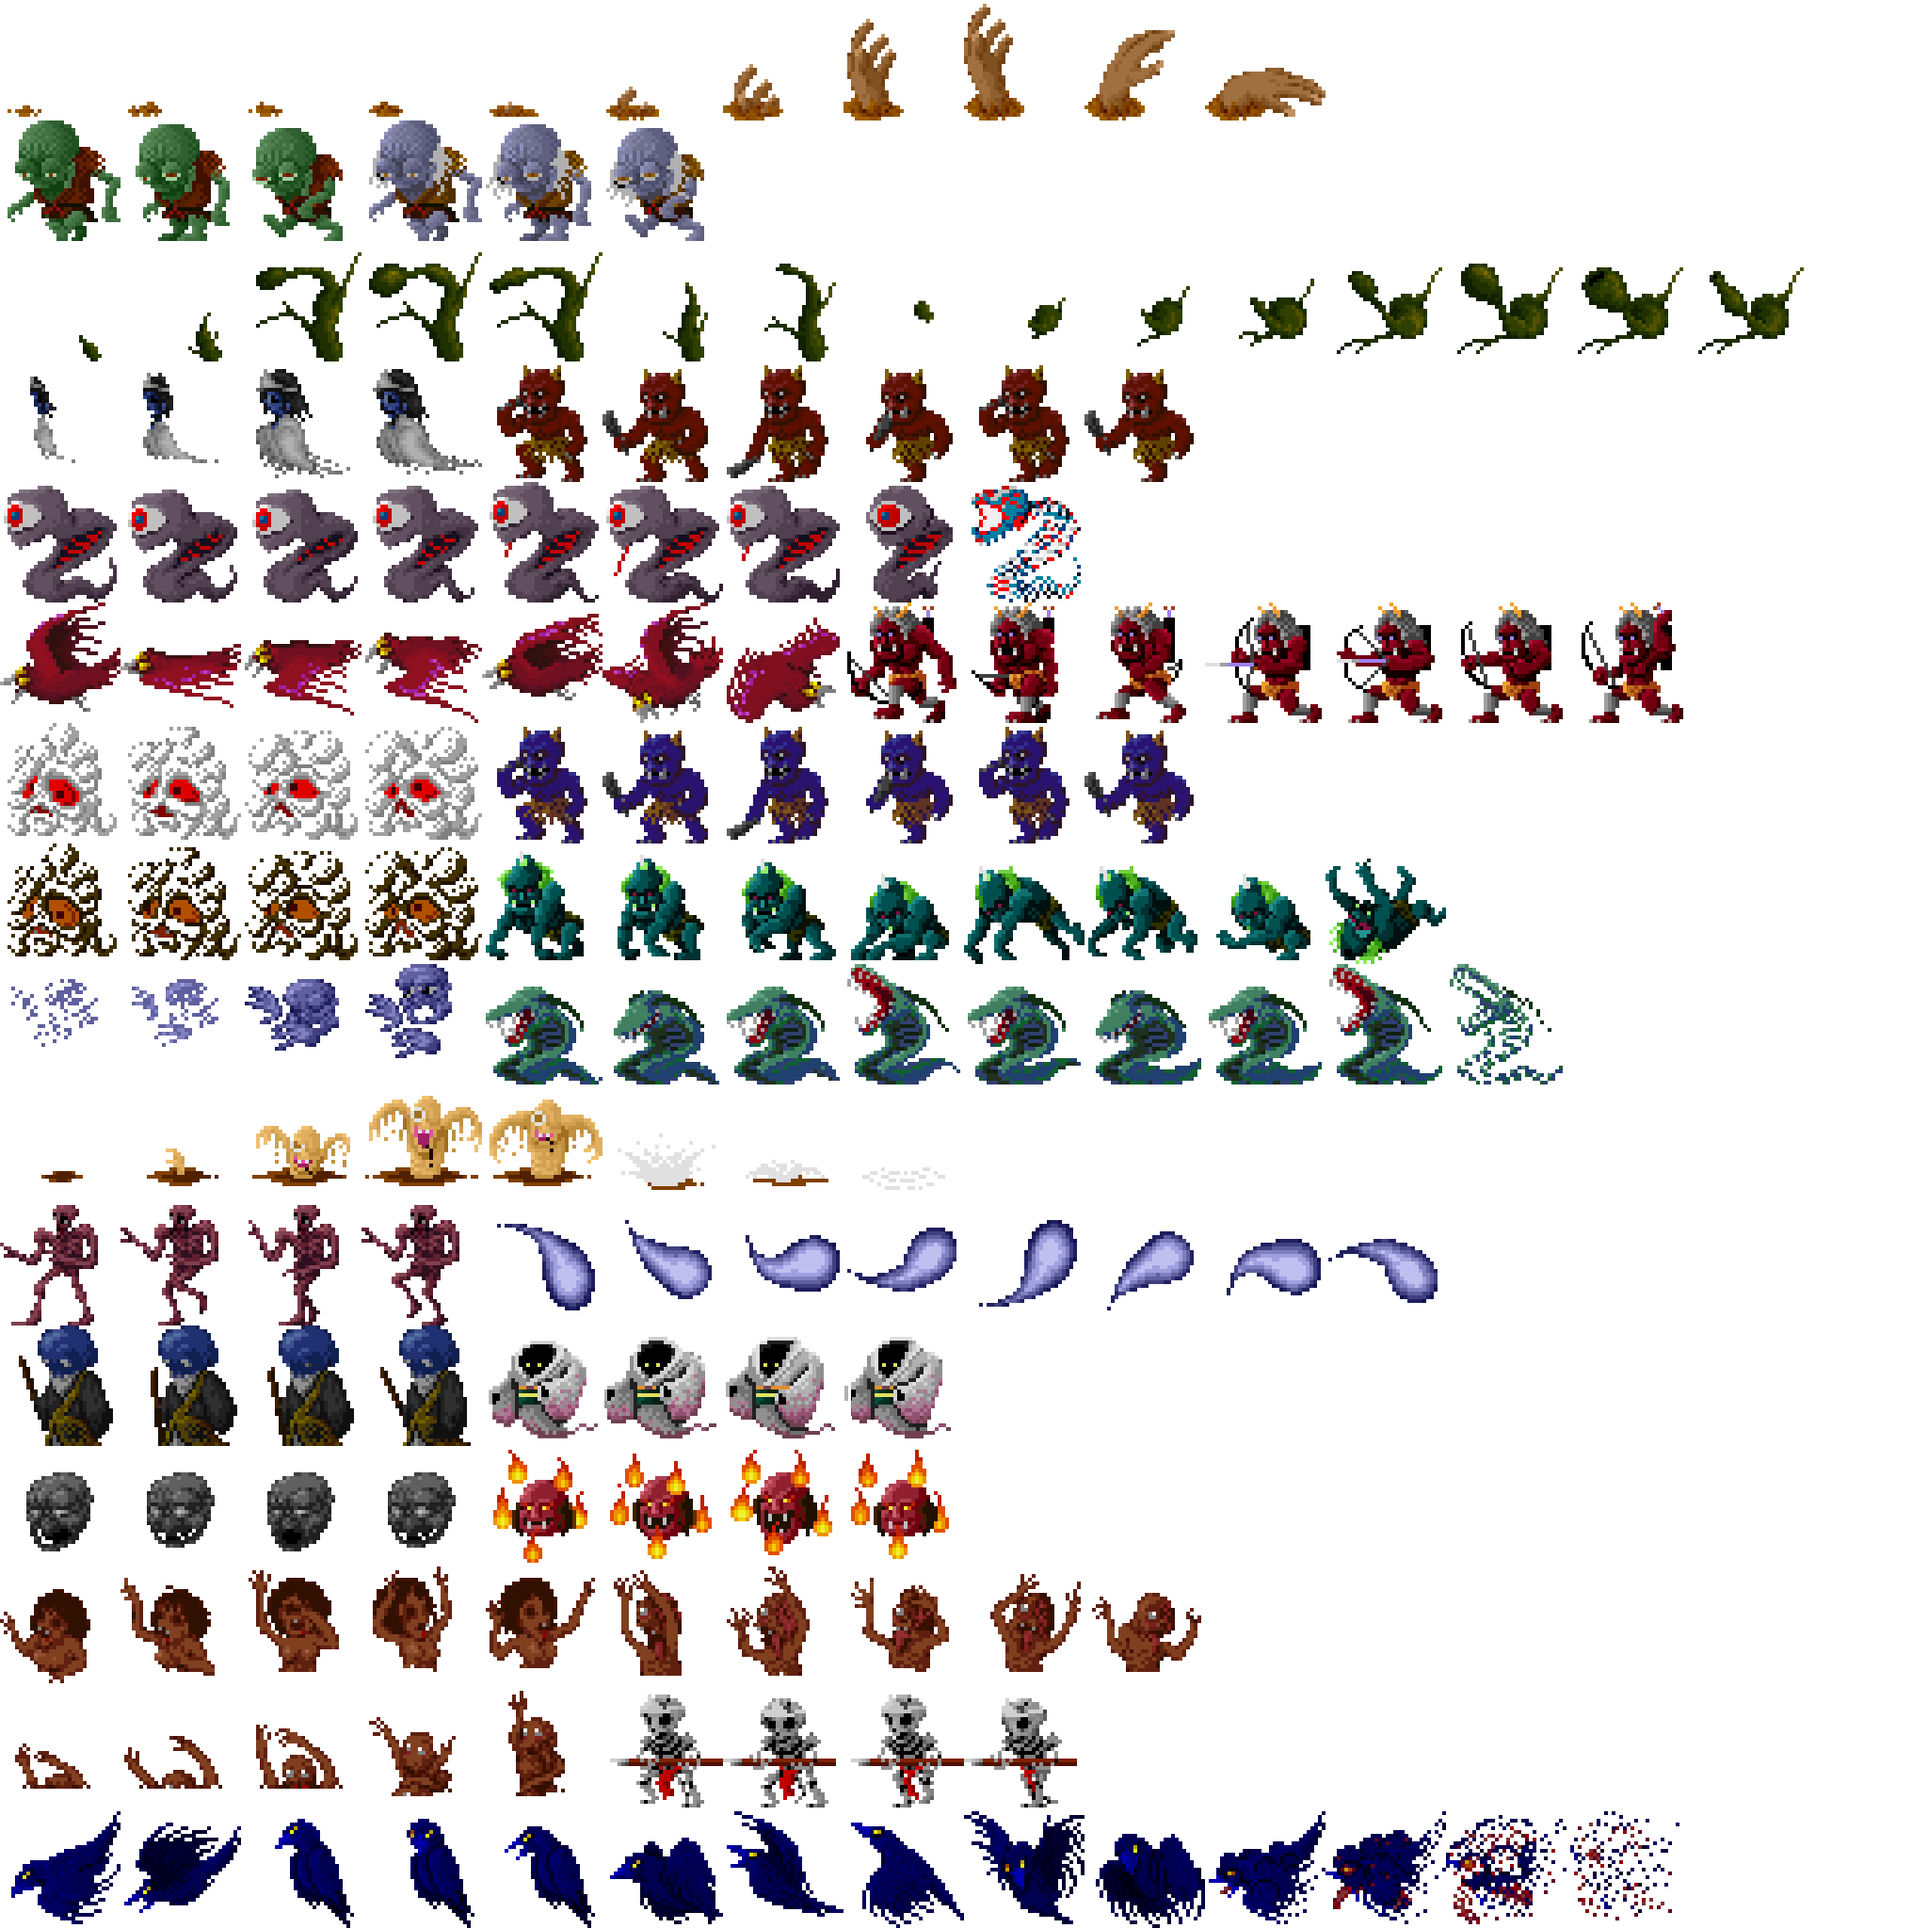
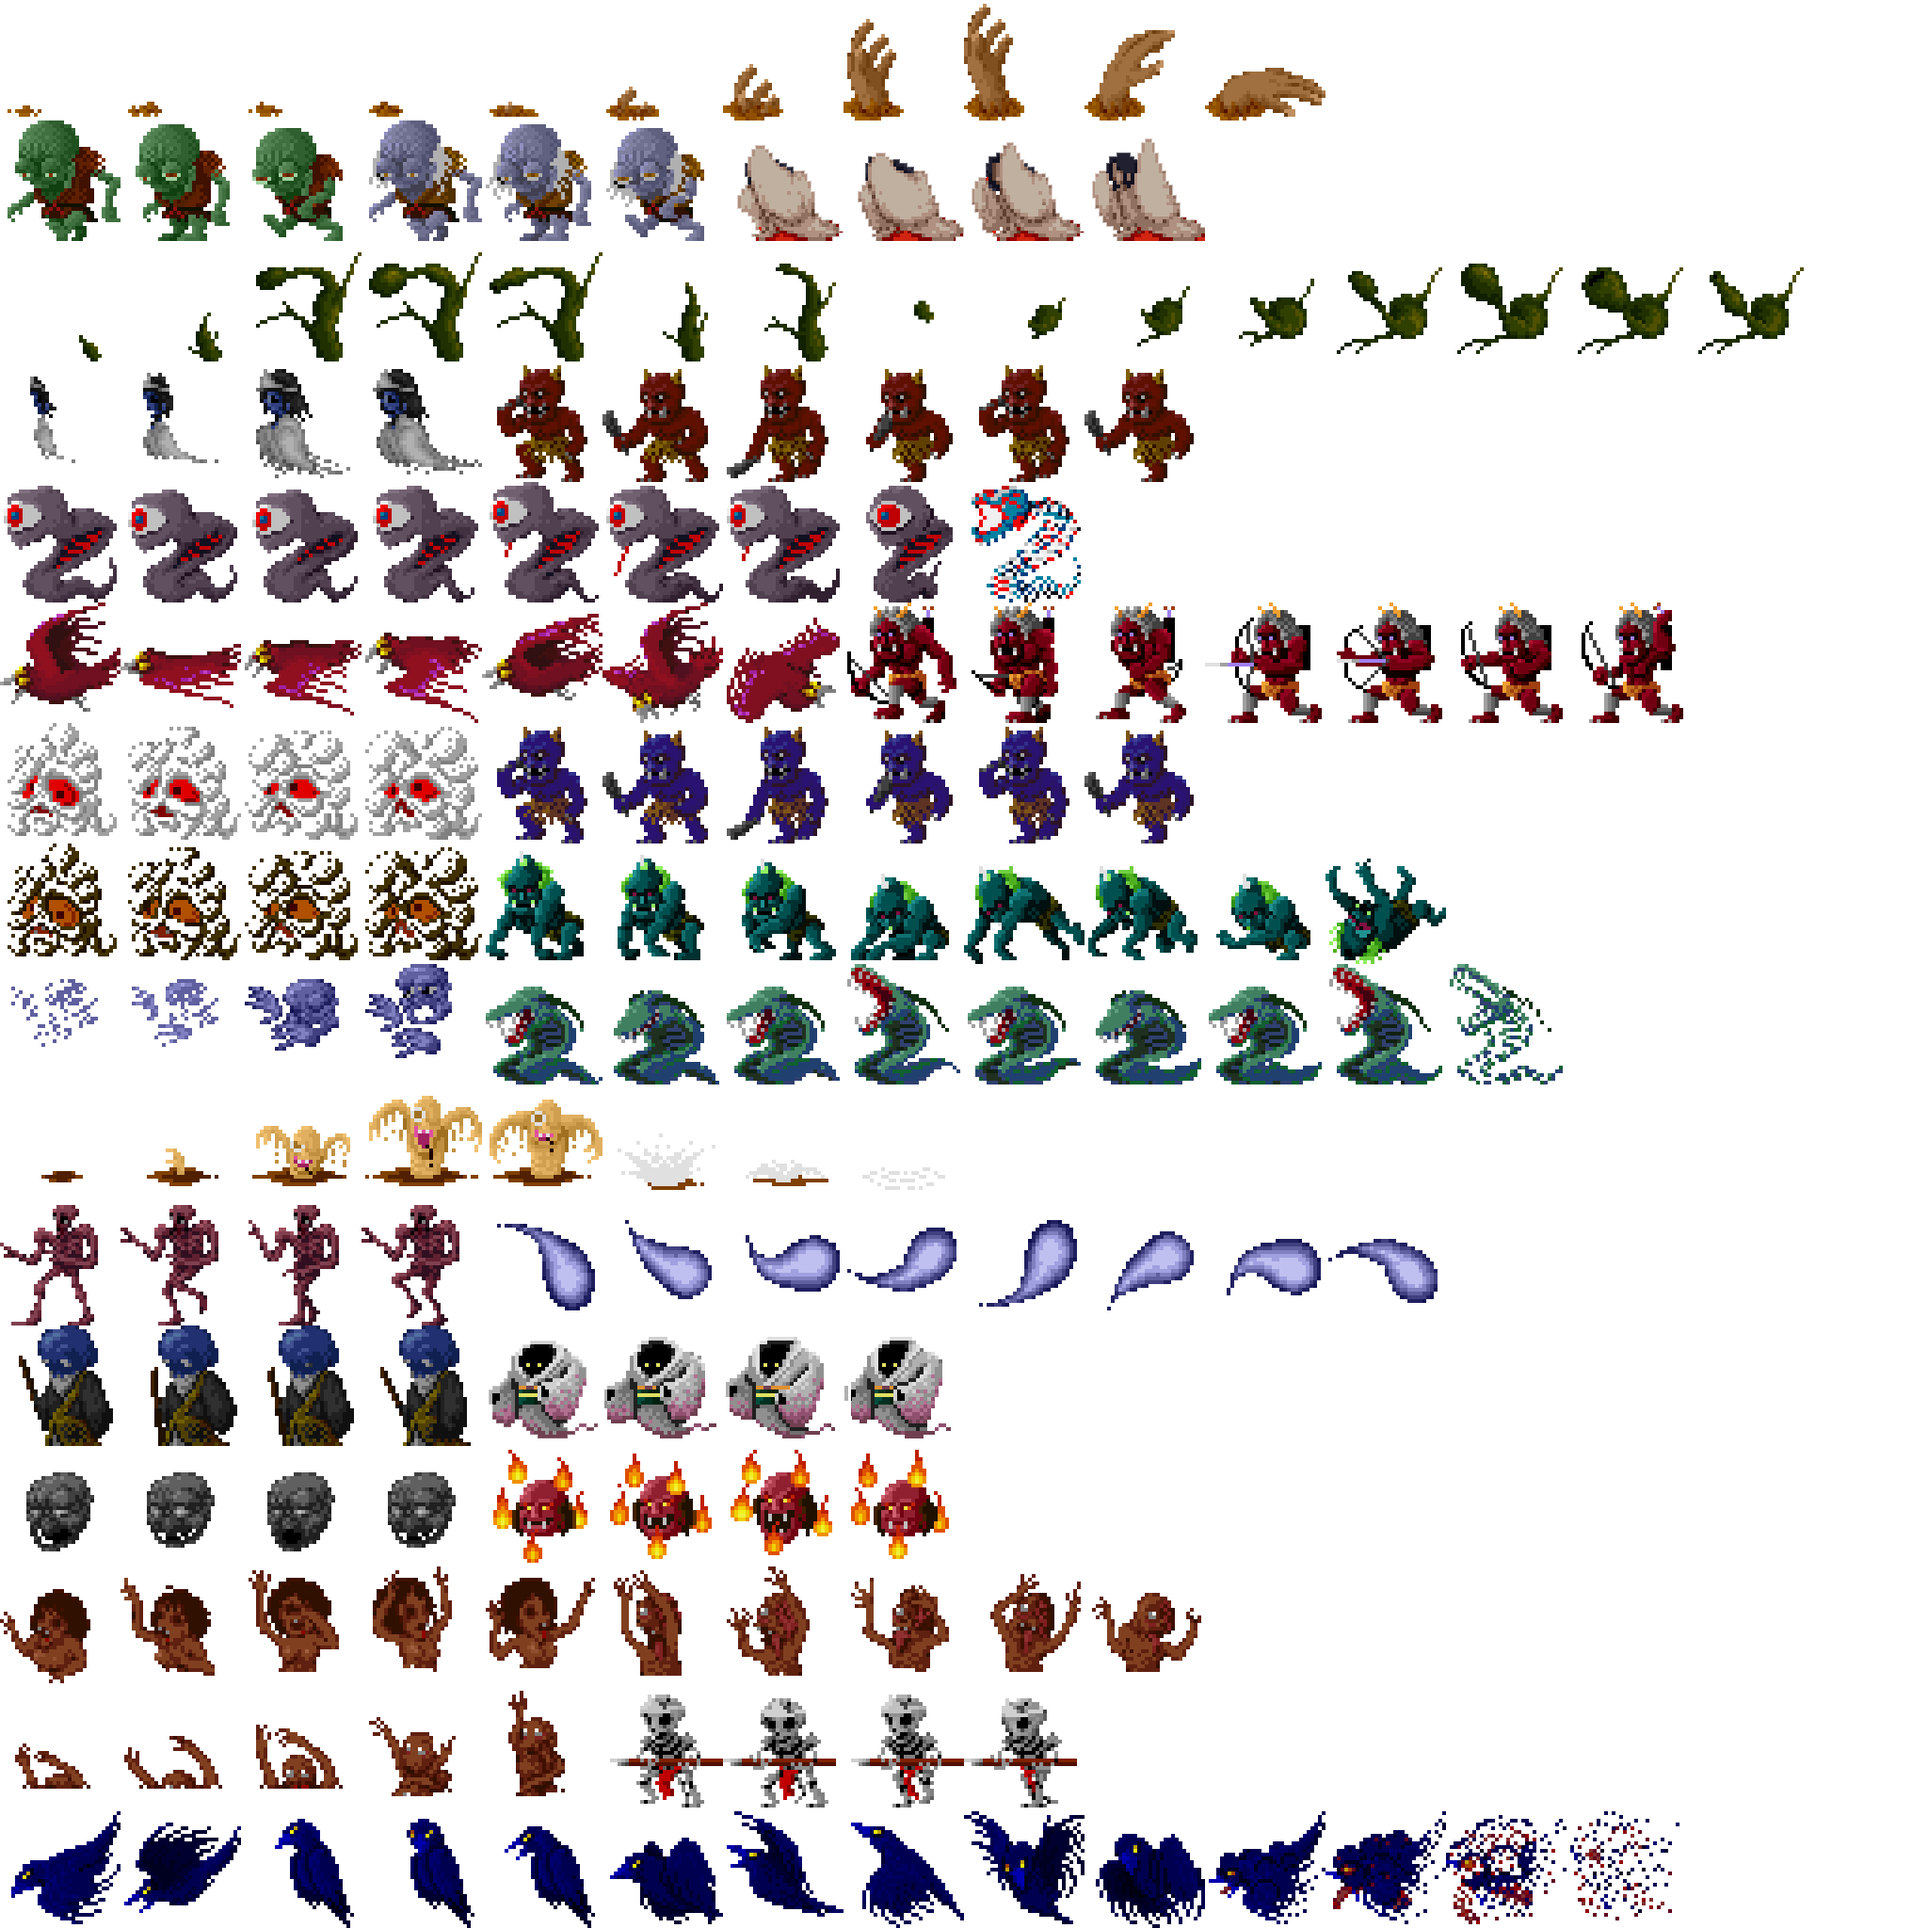
のっぺらぼう登場

Changed region(s): [[0.375, 0.0625, 0.625, 0.125]]

diff --git a/Solution/EnemyManager.cpp b/Solution/EnemyManager.cpp
@@ -51,6 +51,7 @@
 #include "EnemyWindMonster.h"
 #include "EnemyBat.h"
 #include "EnemyHandMonster.h"
+#include "EnemyNoFace.h"
 
 static const int BASE_POP_Y = 200;
 static const int POPUP_GROUND = 400;
@@ -337,6 +338,9 @@ void EnemyManager::createByField( unsigned long long enemy_data, CameraConstPtr 
 	}
 	if ( data & HAND ) {
 		_enemies.push_back( EnemyPtr( new EnemyHandMonster( pop_base_x, BASE_POP_Y ) ) );
+	}
+	if ( data & NO_FACE ) {
+		_enemies.push_back( EnemyPtr( new EnemyNoFace( pop_base_x, BASE_POP_Y ) ) );
 	}
 }
 

diff --git a/Solution/Map3.cpp b/Solution/Map3.cpp
@@ -5,7 +5,7 @@ static const Map::Item item = {
 	Map::BOSS_ENMA
 };
 
-static const Map::Panel panel[] = {/*
+static const Map::Panel panel[] = {
 	{
 		"street/map3/bg/map3_00_00.png",
 		"",
@@ -665,7 +665,7 @@ static const Map::Panel panel[] = {/*
 		"~~~~~~~~~~~~~~~~"
 		"################",
 		NONE
-	},*/
+	},
 	{
 		"street/map3/bg/map3_00_32.png",
 		"",

diff --git a/Solution/MapTest.cpp b/Solution/MapTest.cpp
@@ -48,7 +48,7 @@ static const Map::Panel panel[] = {
 		"         #######"
 		"################"
 		"################",
-		HAND
+		NO_FACE
 	},
 	{//2
 		"street/map0/bg/map0_02_00.png",
